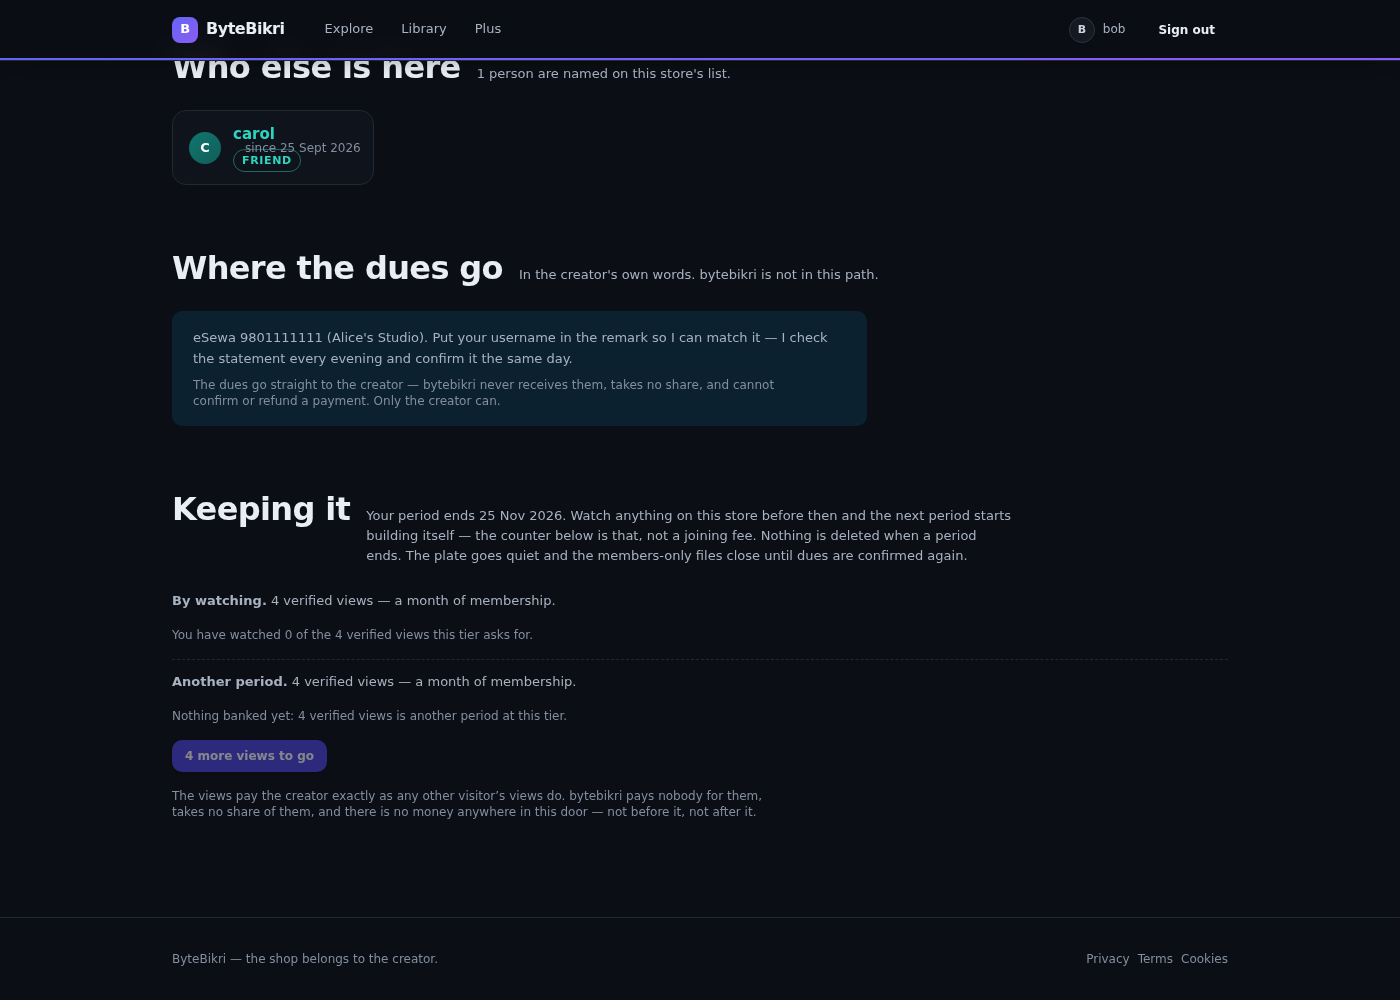
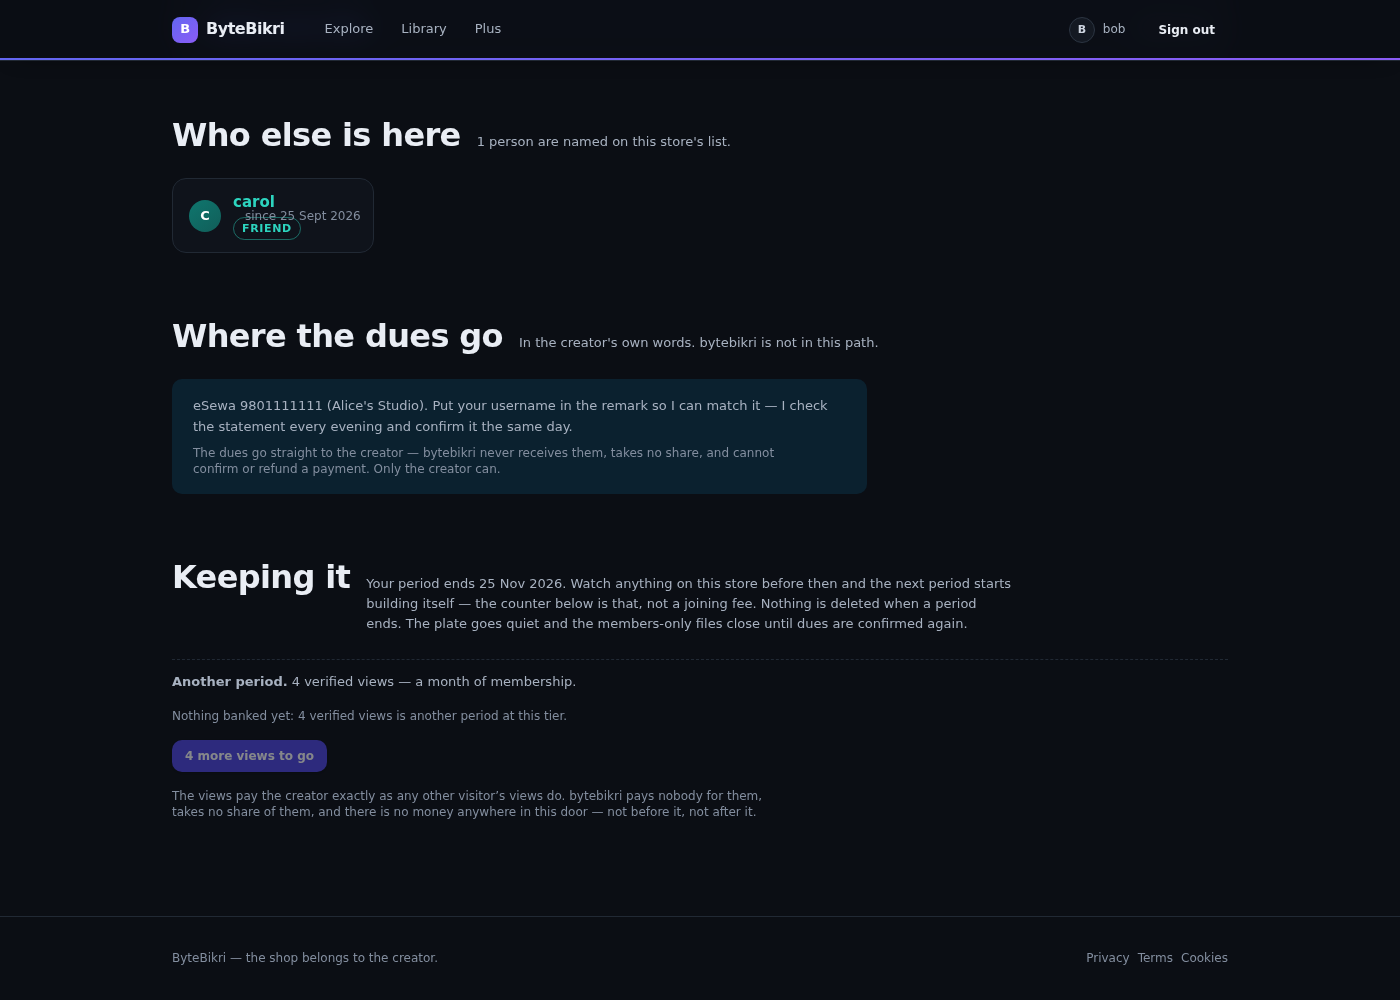
The room said the same thing twice
Reading the walk's own screenshot caught it: the member room's "Keeping it" panel
rendered its lead-in and its counter, and then the watching door rendered both
again one line apart — "By watching. 4 verified views…" twice, with two counters
under them. The door has carried its own lead-in, counter and money sentence since
it became one shared control; the room's own copy of the first two predates that
and had to go.

Screenshots 27 and 29 regenerated from a full walk against the fix; console
errors: none.

diff --git a/app/src/views.js b/app/src/views.js
@@ -1225,14 +1225,12 @@ ${channel.membership_note ? `<div class="section">
     : 'Two doors, and only one of them is money. The first is dues sent straight to the creator; the second is '
       + 'views on this store’s own files, and the price is the platform’s.'}</p>
   </div>
-  ${inRoom ? '' : ''}
   ${doors.dues && !inRoom ? `<p class="small"><strong>With dues.</strong> ${esc(MONEY_LINE)}
     <a href="/s/${esc(channel.slug)}#join">Send the reference →</a></p>` : ''}
-  ${doors.attention ? `<p class="small"><strong>By watching.</strong> ${esc(attentionLine(roomTier))}</p>
-    ${user
-    ? `<p class="fine">${esc(attentionStandingLine({ tier: roomTier, standing }))}</p>`
-    : ''}
-    ${watchingDoor({ channel, tier: roomTier, standing, user, membership, price, wide: true })}` : ''}
+  ${/* The watching door renders its own lead-in, its own counter and its own money
+       sentence — the room used to add a second copy of the first two, which is what a
+       screenshot of this page caught: the same fact stated twice, one line apart. */
+    doors.attention ? watchingDoor({ channel, tier: roomTier, standing, user, membership, price, wide: true }) : ''}
   ${membershipsOn ? '' : `<p class="fine">${esc(FREE_PLAN_LINE)}</p>`}
 </div>`,
   });
